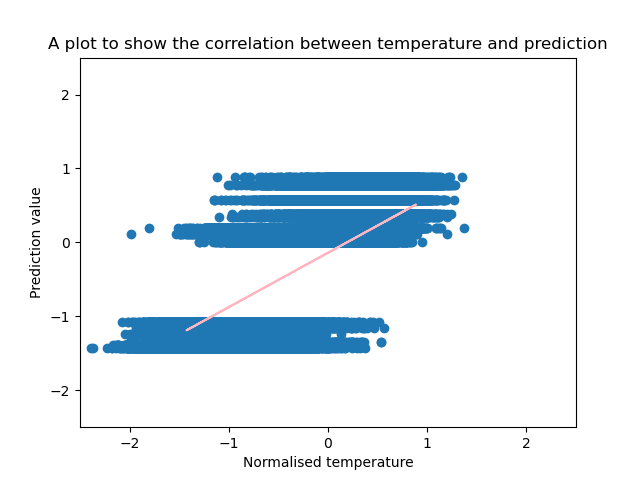
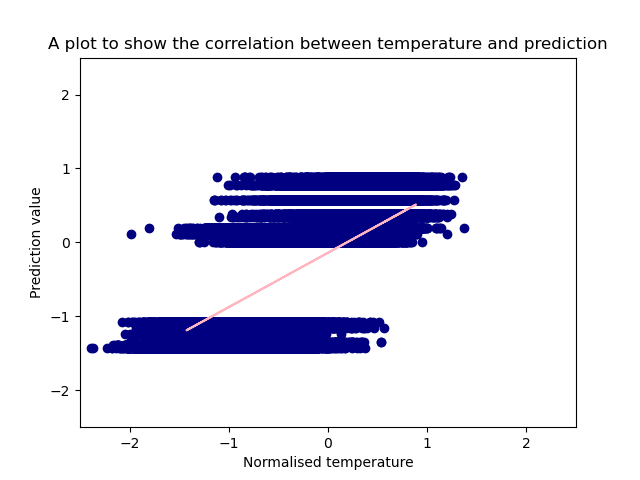
Changed scatterplot colour to navy blue by argument c.

Changed region(s): [[0.1875, 0.3438, 0.75, 0.5312], [0.125, 0.6562, 0.625, 0.75]]

diff --git a/scripts/003/003_plot_correlation.py b/scripts/003/003_plot_correlation.py
@@ -10,13 +10,13 @@ df = pd.read_csv(sys.argv[1], sep="\t")
 x = df['temperature']
 y = df['prediction']
 
-plt.scatter(y, x)
+plt.scatter(y, x, c='navy')
 plt.title('A plot to show the correlation between temperature and prediction')
 plt.ylim(-2.5, 2.5)
 plt.xlim(-2.5, 2.5) 
 plt.xlabel('Normalised temperature')
 plt.ylabel('Prediction value')
-plt.plot(color='navy')
+plt.plot()
 
 m, b = numpy.polyfit(x, y, 1)
 plt.plot(x, m*x+b, color='lightpink')
